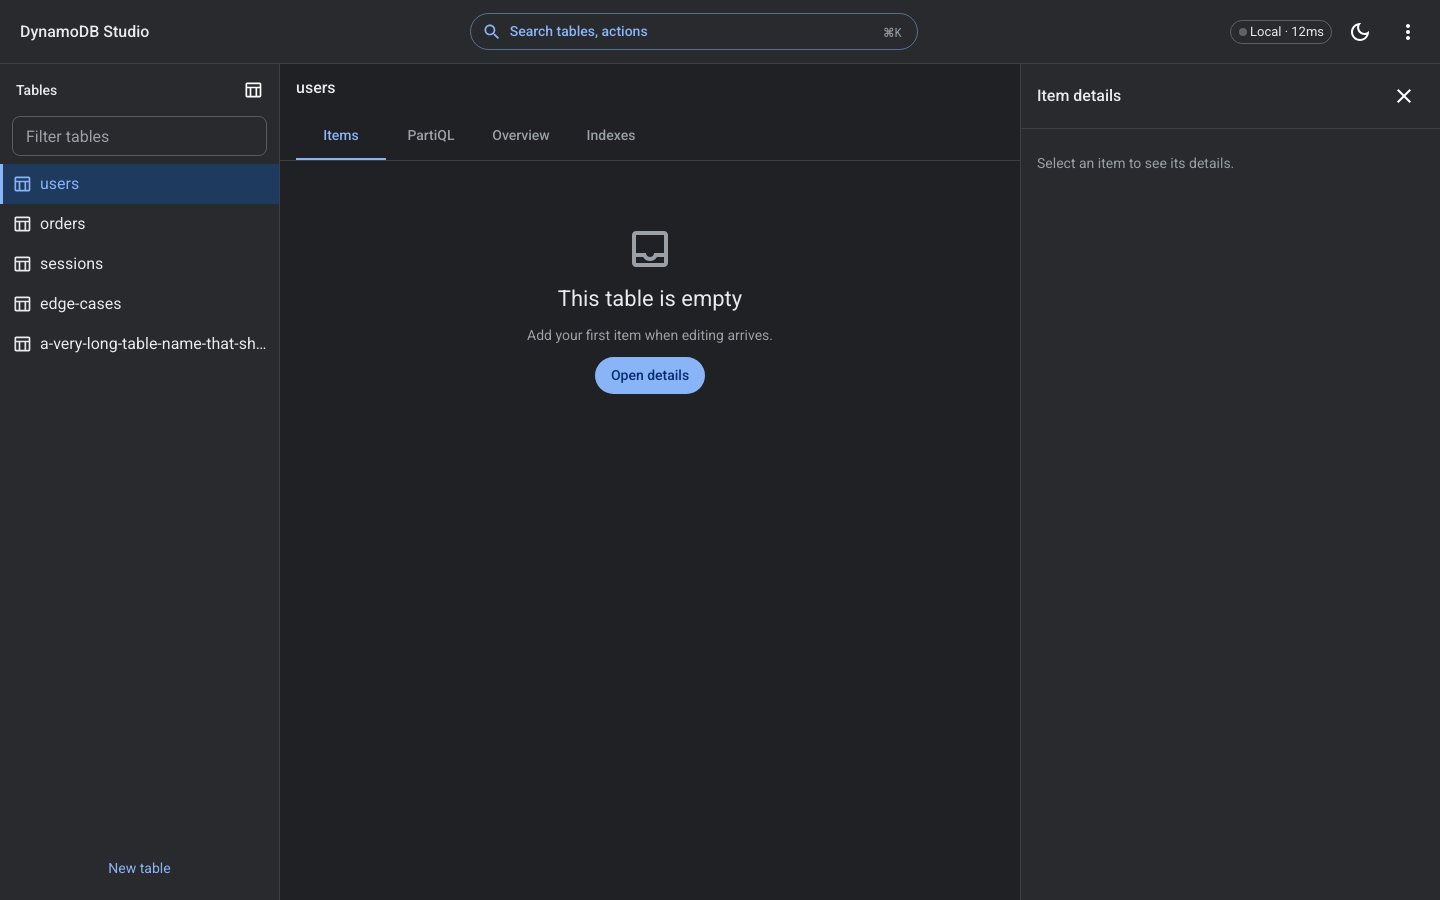
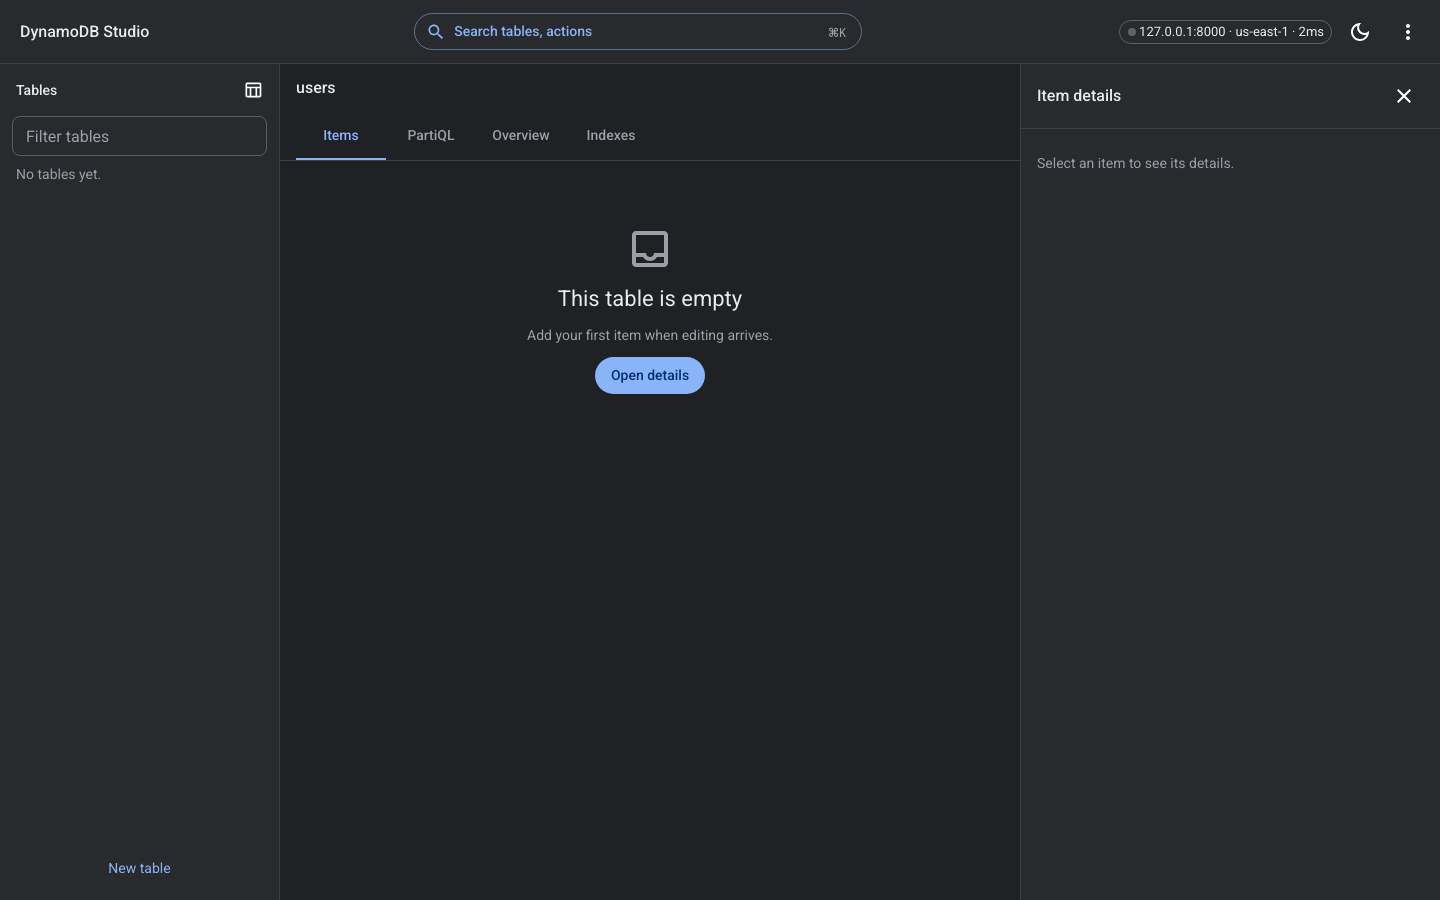
test(e2e): cover connect, keyboard, and a closable proxy
AC-2.8 closes a TCP proxy instead of stopping DynamoDB Local so the connection-lost banner runs in CI.

diff --git a/e2e/connect.spec.ts b/e2e/connect.spec.ts
@@ -1,0 +1,86 @@
+import AxeBuilder from "@axe-core/playwright";
+import { expect, type Page, test } from "@playwright/test";
+import { isSerious } from "./axe.js";
+import { startProxy } from "./proxy.js";
+
+test("reaches the workspace from a pasted URL with Enter", async ({ page }) => {
+  await page.setViewportSize({ width: 1440, height: 900 });
+  await page.goto("/");
+  await expect(page.getByRole("textbox", { name: "Endpoint" })).toBeFocused();
+  await page.keyboard.type("localhost:8000");
+  await page.keyboard.press("Enter");
+  await expect(page.getByRole("heading", { name: "Select a table" })).toBeVisible();
+  await expect(page.getByText(/\d+ms/)).toBeVisible();
+});
+
+test("retries a wrong URL without reloading", async ({ page }) => {
+  await page.goto("/");
+  const endpoint = page.getByRole("textbox", { name: "Endpoint" });
+  await endpoint.fill("http://127.0.0.1:9");
+  await page.getByRole("button", { name: "Connect" }).click();
+  await expect(
+    page.getByText("Couldn't reach http://127.0.0.1:9. Is DynamoDB running and the URL correct?"),
+  ).toBeVisible();
+  await endpoint.fill("localhost:8000");
+  await page.keyboard.press("Enter");
+  await expect(page.getByRole("heading", { name: "Select a table" })).toBeVisible();
+});
+
+test("can complete the connect form from the keyboard", async ({ page }) => {
+  await page.goto("/");
+  await page.keyboard.type("localhost:8000");
+  await expect(page.getByRole("radio", { name: "Local" })).toBeChecked();
+  await page.keyboard.press("Tab");
+  await expect(page.getByRole("textbox", { name: "Region" })).toBeFocused();
+  await page.keyboard.press("Tab");
+  await expect(page.getByRole("radio", { name: "Local" })).toBeFocused();
+  await page.keyboard.press("Tab");
+  await page.keyboard.press("Tab");
+  await page.keyboard.press("Tab");
+  await expect(page.getByRole("button", { name: "Connect" })).toBeFocused();
+  await page.keyboard.press("Enter");
+  await expect(page.getByRole("heading", { name: "Select a table" })).toBeVisible();
+});
+
+for (const scheme of ["light", "dark"] as const) {
+  test(`connect screen axe and screenshot in ${scheme}`, async ({ page }) => {
+    await shootConnect(page, scheme);
+  });
+}
+
+test("shows connection lost when the endpoint proxy closes", async ({ page }) => {
+  test.setTimeout(60_000);
+  const proxy = await startProxy(8000);
+  try {
+    await page.goto("/");
+    await page
+      .getByRole("textbox", { name: "Endpoint" })
+      .fill(`http://127.0.0.1:${String(proxy.port)}`);
+    await page.keyboard.press("Enter");
+    await expect(page.getByText(/\d+ms/)).toBeVisible();
+    await proxy.close();
+    await expect(page.getByText("Connection lost. Retry / Disconnect")).toBeVisible({
+      timeout: 35_000,
+    });
+  } finally {
+    await proxy.close();
+  }
+});
+
+async function shootConnect(page: Page, scheme: "light" | "dark") {
+  await page.addInitScript((value) => {
+    localStorage.setItem("mui-mode", value);
+  }, scheme);
+  await page.emulateMedia({ colorScheme: scheme });
+  await page.setViewportSize({ width: 1440, height: 900 });
+  await page.goto("/");
+  await expect(page.getByRole("heading", { name: "DynamoDB Studio" })).toBeVisible();
+  await page.screenshot({ path: `docs/screenshots/phase-2/connect-${scheme}.png` });
+  const result = await new AxeBuilder({ page }).analyze();
+  expect(result.violations.filter((violation) => isSerious(violation.impact))).toEqual([]);
+
+  await page.getByRole("textbox", { name: "Endpoint" }).fill("localhost:8000");
+  await page.keyboard.press("Enter");
+  await expect(page.getByRole("heading", { name: "Select a table" })).toBeVisible();
+  await page.screenshot({ path: `docs/screenshots/phase-2/workspace-${scheme}.png` });
+}

diff --git a/e2e/proxy.ts b/e2e/proxy.ts
@@ -1,0 +1,60 @@
+/// <reference types="node" />
+import net from "node:net";
+
+export function startProxy(
+  targetPort: number,
+): Promise<{ port: number; close: () => Promise<void> }> {
+  const sockets = new Set<net.Socket>();
+  const server = net.createServer((socket) => {
+    sockets.add(socket);
+    socket.on("close", () => {
+      sockets.delete(socket);
+    });
+    const upstream = net.connect(targetPort, "127.0.0.1");
+    sockets.add(upstream);
+    upstream.on("close", () => {
+      sockets.delete(upstream);
+    });
+    socket.pipe(upstream);
+    upstream.pipe(socket);
+    socket.on("error", () => {
+      upstream.destroy();
+    });
+    upstream.on("error", () => {
+      socket.destroy();
+    });
+  });
+
+  return new Promise((resolve, reject) => {
+    server.once("error", reject);
+    server.listen(0, "127.0.0.1", () => {
+      const address = server.address();
+      if (address === null || typeof address === "string") {
+        reject(new Error("Proxy did not bind."));
+        return;
+      }
+      let closed = false;
+      resolve({
+        port: address.port,
+        close: () => {
+          if (closed) {
+            return Promise.resolve();
+          }
+          closed = true;
+          for (const socket of sockets) {
+            socket.destroy();
+          }
+          return new Promise((done, fail) => {
+            server.close((error) => {
+              if (error instanceof Error) {
+                fail(error);
+                return;
+              }
+              done();
+            });
+          });
+        },
+      });
+    });
+  });
+}

diff --git a/e2e/shell.spec.ts b/e2e/shell.spec.ts
@@ -1,10 +1,11 @@
 import AxeBuilder from "@axe-core/playwright";
 import { expect, type Page, test } from "@playwright/test";
 import { isSerious } from "./axe.js";
+import { openWorkspace } from "./session.js";
 
 test("keyboard can use the palette, sidebar, drawer, and shortcuts", async ({ page }) => {
   await page.setViewportSize({ width: 1440, height: 900 });
-  await page.goto("/c/local/t/users/items");
+  await openWorkspace(page, "/t/users/items");
   const search = page.getByRole("button", { name: /Search tables/ });
   await search.focus();
   await page.keyboard.press("Control+k");
@@ -15,7 +16,7 @@ test("keyboard can use the palette, sidebar, drawer, and shortcuts", async ({ pa
 
   await page.getByRole("searchbox", { name: "Filter tables" }).focus();
   await page.keyboard.press("Tab");
-  await expect(page.getByRole("link", { name: "users" })).toBeFocused();
+  await expect(page.getByRole("button", { name: "New table" })).toBeFocused();
 
   const open = page.getByRole("button", { name: "Open details" });
   await open.focus();
@@ -94,7 +95,7 @@ async function shootShell(page: Page, scheme: "light" | "dark") {
   }, scheme);
   await page.emulateMedia({ colorScheme: scheme });
   await page.setViewportSize({ width: 1440, height: 900 });
-  await page.goto("/c/local/t/users/items");
+  await openWorkspace(page, "/t/users/items");
   await expect(page.getByRole("heading", { name: "users" })).toBeVisible();
   await page.screenshot({ path: `docs/screenshots/phase-1/shell-${scheme}.png` });
   await expectNoSeriousAxe(page);

diff --git a/e2e/session.ts b/e2e/session.ts
@@ -1,0 +1,40 @@
+import { expect, type Page } from "@playwright/test";
+
+export async function connectLocal(
+  page: Page,
+  endpoint = "http://127.0.0.1:8000",
+): Promise<string> {
+  const session = await page.request.get("/api/v1/session");
+  expect(session.ok()).toBeTruthy();
+  const csrfToken = readString(await session.json(), "csrfToken");
+  const created = await page.request.post("/api/v1/connections", {
+    headers: { "x-ds-csrf": csrfToken },
+    data: {
+      endpoint,
+      region: "us-east-1",
+      auth: { type: "local" },
+      env: "local",
+      readOnly: false,
+      remember: false,
+    },
+  });
+  const raw = await created.text();
+  expect(created.ok(), raw).toBeTruthy();
+  return readString(JSON.parse(raw) as unknown, "connectionId");
+}
+
+function readString(value: unknown, key: string): string {
+  if (typeof value !== "object" || value === null || !(key in value)) {
+    throw new Error(`Missing ${key}`);
+  }
+  const field = value[key as keyof typeof value];
+  if (typeof field !== "string") {
+    throw new Error(`Missing ${key}`);
+  }
+  return field;
+}
+
+export async function openWorkspace(page: Page, pathAfterConnection: string): Promise<void> {
+  const connectionId = await connectLocal(page);
+  await page.goto(`/c/${connectionId}${pathAfterConnection}`);
+}

diff --git a/e2e/smoke.spec.ts b/e2e/smoke.spec.ts
@@ -2,10 +2,10 @@ import AxeBuilder from "@axe-core/playwright";
 import { expect, test } from "@playwright/test";
 import { isSerious } from "./axe.js";
 
-test("connect placeholder shows DynamoDB Studio", async ({ page }) => {
+test("connect screen shows DynamoDB Studio", async ({ page }) => {
   await page.goto("/");
   await expect(page.getByRole("heading", { name: "DynamoDB Studio" })).toBeVisible();
-  await expect(page.getByRole("link", { name: "Connect" })).toBeVisible();
+  await expect(page.getByRole("button", { name: "Connect" })).toBeVisible();
   const result = await new AxeBuilder({ page }).analyze();
   expect(result.violations.filter((violation) => isSerious(violation.impact))).toEqual([]);
 });
